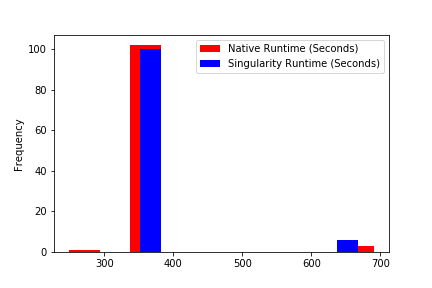
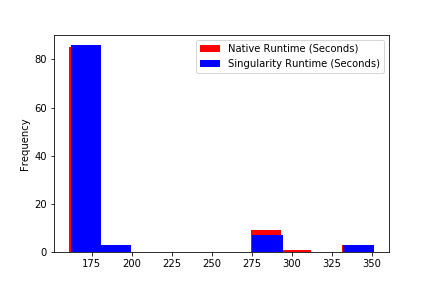
Slight tweaks to test script for data integrity

diff --git a/sentiment_analysis/results/ttest_2gpu.py b/sentiment_analysis/results/ttest_2gpu.py
@@ -18,24 +18,25 @@ sentiment_native_csv = '2GPU_sentiment_analysis_native.csv'
 
 native_df = pandas.read_csv(sentiment_native_csv, '\n', names=['Native Runtime (Seconds)'])
 singularity_df = pandas.read_csv(sentiment_singularity_csv, '\n', names=['Singularity Runtime (Seconds)'])
-native_df=native_df.drop([62,94])
+native_df=native_df.drop([62,94,110])
 #singularity_df=singularity_df.drop([18])
-
-df = native_df.join(singularity_df).dropna()
-print(df.describe())
+print(native_df.describe())
+print(singularity_df.describe())
+#df = native_df.merge(singularity_df, how='left')
+#print(df.describe())
 print('p-value:\t 0.05\n')
 print('degrees of freedom:\t ~200\n')
 print('Critical t-val:\t 1.980\n')
 
-t_val_rel = stats.ttest_rel(df.loc[:,'Native Runtime (Seconds)'],df.loc[:,'Singularity Runtime (Seconds)'])
+t_val_rel = stats.ttest_rel(native_df.loc[:,'Native Runtime (Seconds)'],singularity_df.loc[:,'Singularity Runtime (Seconds)'])
 print(t_val_rel)
-t_val_ind = stats.ttest_ind(df.loc[:,'Native Runtime (Seconds)'],df.loc[:,'Singularity Runtime (Seconds)'])
+t_val_ind = stats.ttest_ind(native_df.loc[:,'Native Runtime (Seconds)'],singularity_df.loc[:,'Singularity Runtime (Seconds)'])
 print(t_val_ind)
 
 ax = plt.gca()
 
-df.plot(kind='hist', y='Native Runtime (Seconds)', color='red', ax=ax)
-df.plot(kind='hist', y='Singularity Runtime (Seconds)', color='blue', ax=ax)
+native_df.plot(kind='hist', y='Native Runtime (Seconds)', color='red', ax=ax)
+singularity_df.plot(kind='hist', y='Singularity Runtime (Seconds)', color='blue', ax=ax)
 
 
 plt.savefig('2gpu_Histogram.png')

diff --git a/sentiment_analysis/results/ttest_p100.py b/sentiment_analysis/results/ttest_p100.py
@@ -21,24 +21,26 @@ singularity_df = pandas.read_csv(sentiment_singularity_csv, '\n', names=['Singul
 native_df=native_df.drop([35])
 singularity_df=singularity_df.drop([18])
 
-df = native_df.join(singularity_df).dropna()
-print(df.describe())
+print(native_df.describe())
+print(singularity_df.describe())
+#df = native_df.merge(singularity_df, how='left')
+#print(df.describe())
 print('p-value:\t 0.05\n')
 print('degrees of freedom:\t ~200\n')
 print('Critical t-val:\t 1.980\n')
 
-t_val_rel = stats.ttest_rel(df.loc[:,'Native Runtime (Seconds)'],df.loc[:,'Singularity Runtime (Seconds)'])
+t_val_rel = stats.ttest_rel(native_df.loc[:,'Native Runtime (Seconds)'],singularity_df.loc[:,'Singularity Runtime (Seconds)'])
 print(t_val_rel)
-t_val_ind = stats.ttest_ind(df.loc[:,'Native Runtime (Seconds)'],df.loc[:,'Singularity Runtime (Seconds)'])
+t_val_ind = stats.ttest_ind(native_df.loc[:,'Native Runtime (Seconds)'],singularity_df.loc[:,'Singularity Runtime (Seconds)'])
 print(t_val_ind)
 
 ax = plt.gca()
 
-df.plot(kind='hist', y='Native Runtime (Seconds)', color='red', ax=ax)
-df.plot(kind='hist', y='Singularity Runtime (Seconds)', color='blue', ax=ax)
+native_df.plot(kind='hist', y='Native Runtime (Seconds)', color='red', ax=ax)
+singularity_df.plot(kind='hist', y='Singularity Runtime (Seconds)', color='blue', ax=ax)
 
 
-plt.savefig('P100_Histogram.png')
+plt.savefig('2gpu_Histogram.png')
 
 
 
